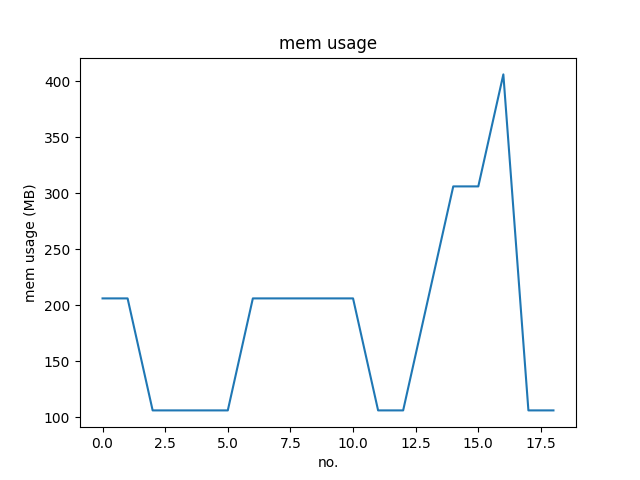
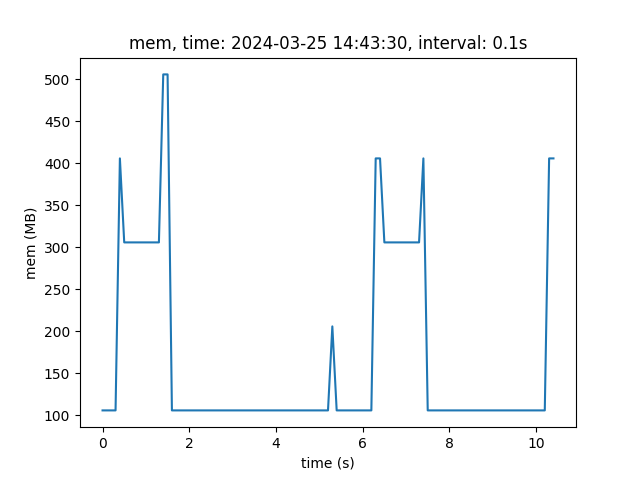
fix monitor

diff --git a/mem_monitor/mem_plot.py b/mem_monitor/mem_plot.py
@@ -1,17 +1,32 @@
+#!/usr/bin/python3
+
 import matplotlib.pyplot as plt
+
+begin_time = ''
+interval = 1.0
 
 data = []
 
 with open("output.txt") as input:
+    line_no = 0
     for line in input:
+        line_no += 1
+
+        if line_no == 1:
+            begin_time = line.strip()
+            continue
+        elif line_no == 2:
+            interval = float(line.strip())
+            continue
+
         d = line.split(' ')[2]
         data.append(float(d) / 1024)
 
-x = [i for i in range(len(data))]
+x = [i * interval for i in range(len(data))]
 y = data
 
 plt.plot(x, y)
-plt.xlabel("no.")
-plt.ylabel("mem usage (MB)")
-plt.title("mem usage")
+plt.xlabel("time (s)")
+plt.ylabel("mem (MB)")
+plt.title(f"mem, time: {begin_time}, interval: {interval}s")
 plt.savefig("output.png")
